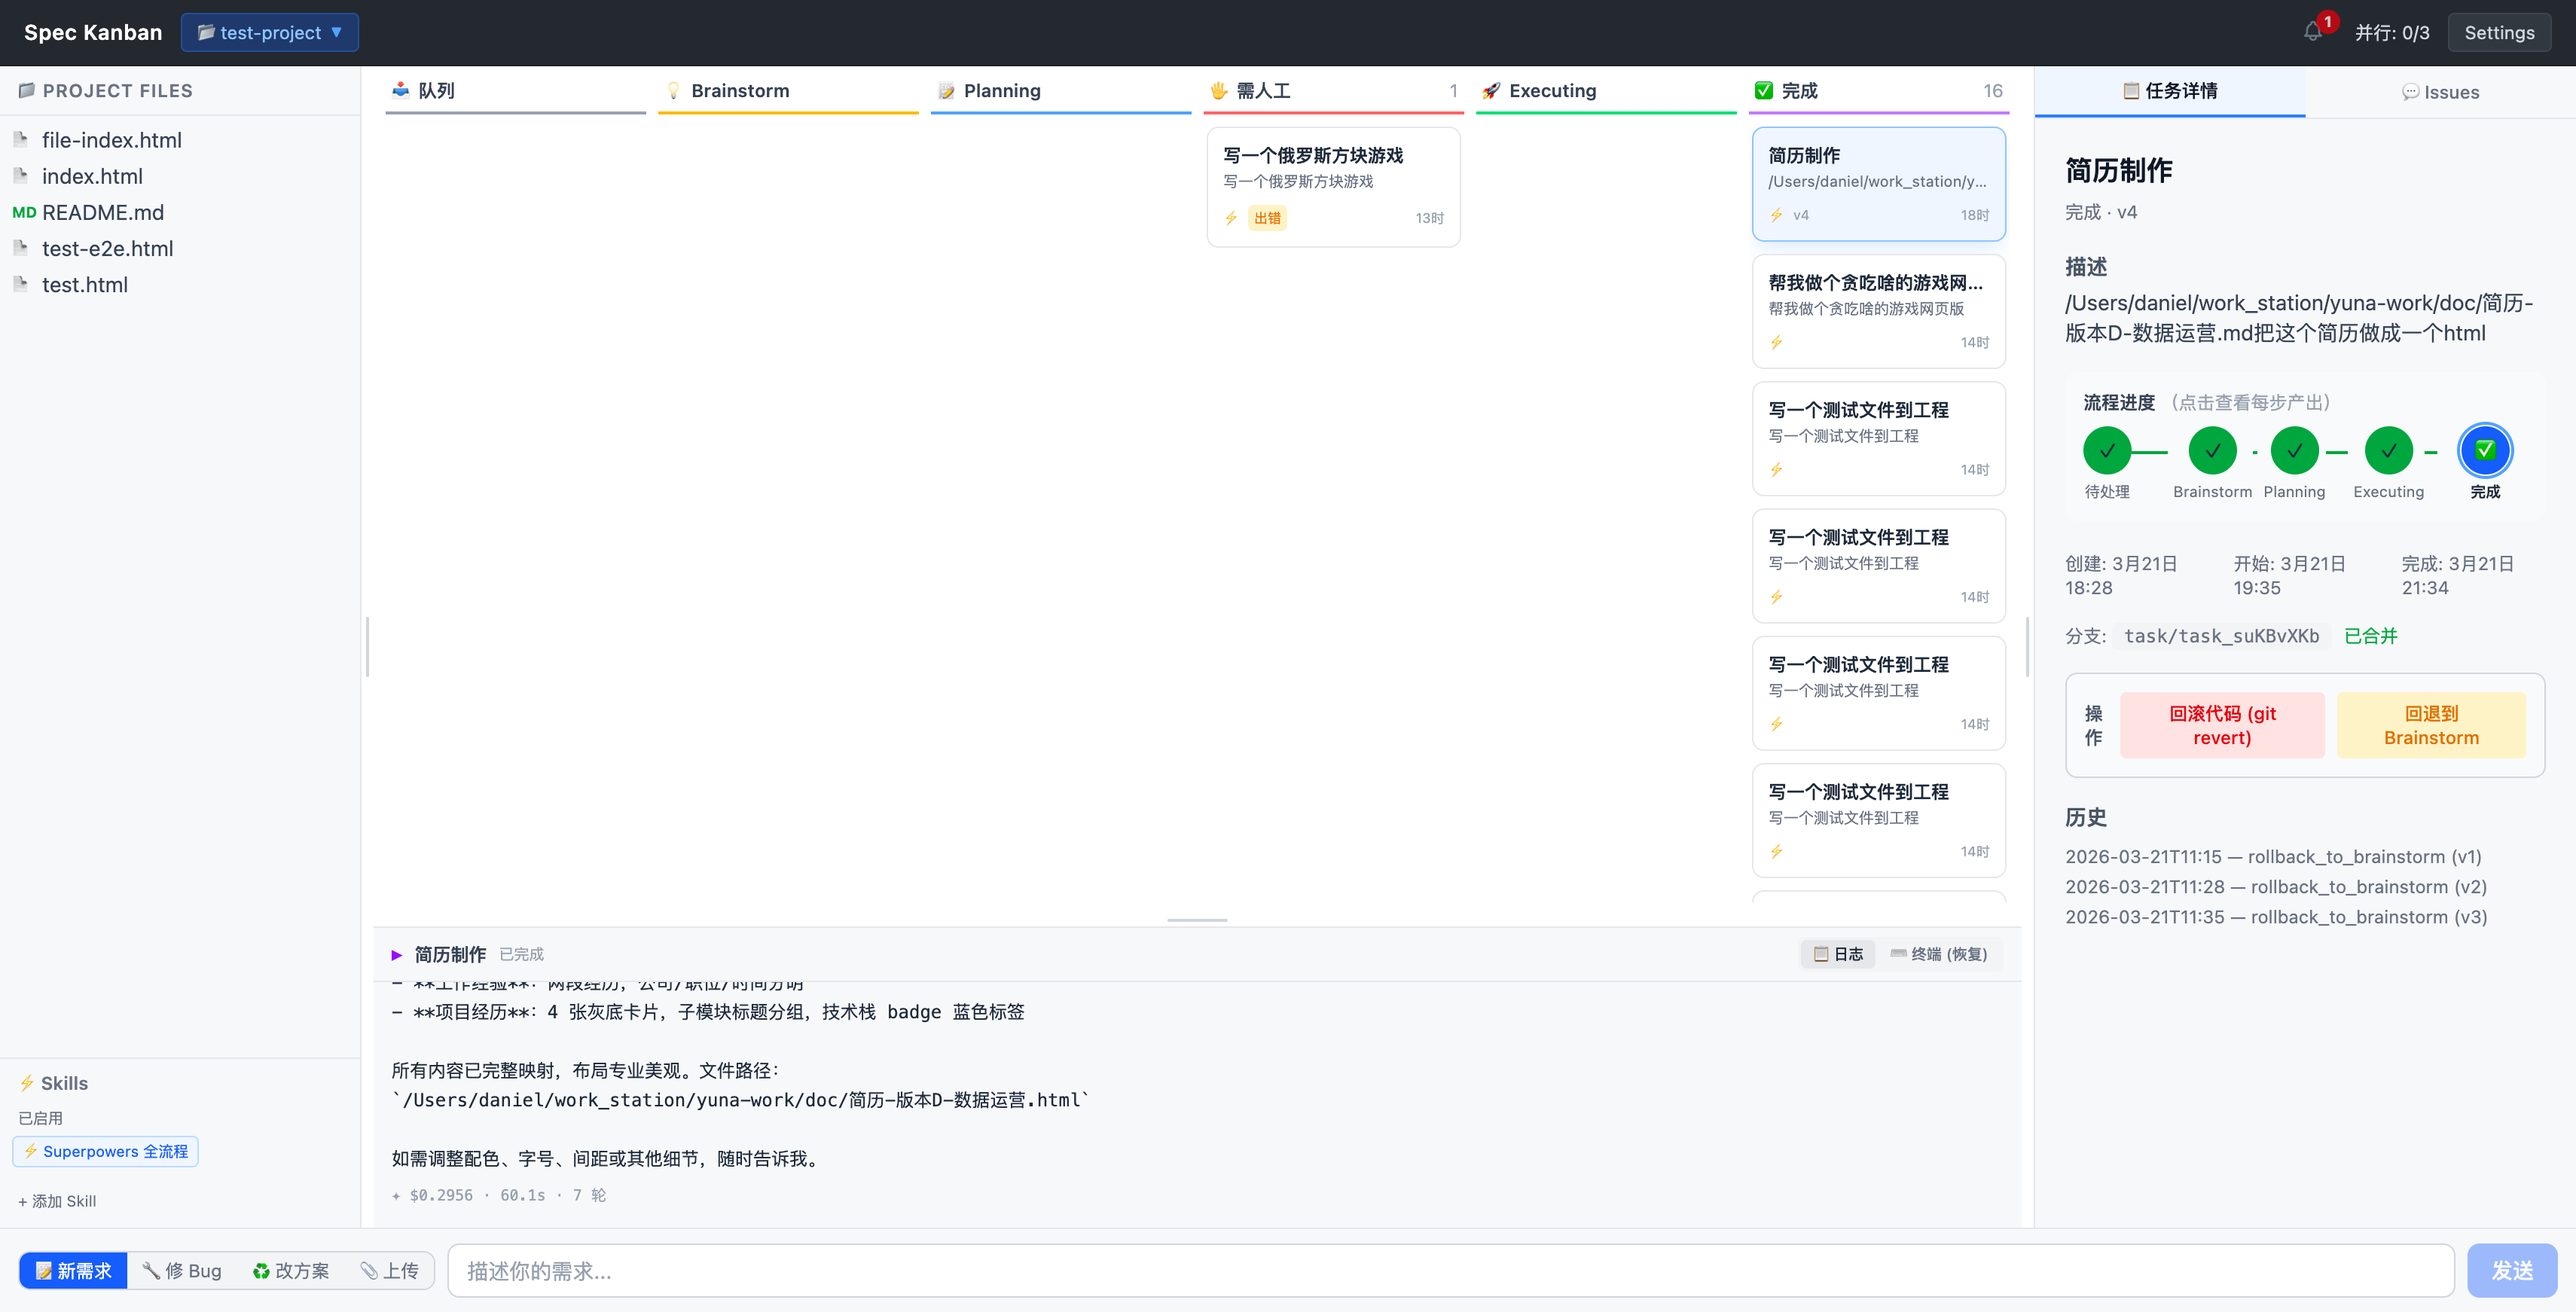
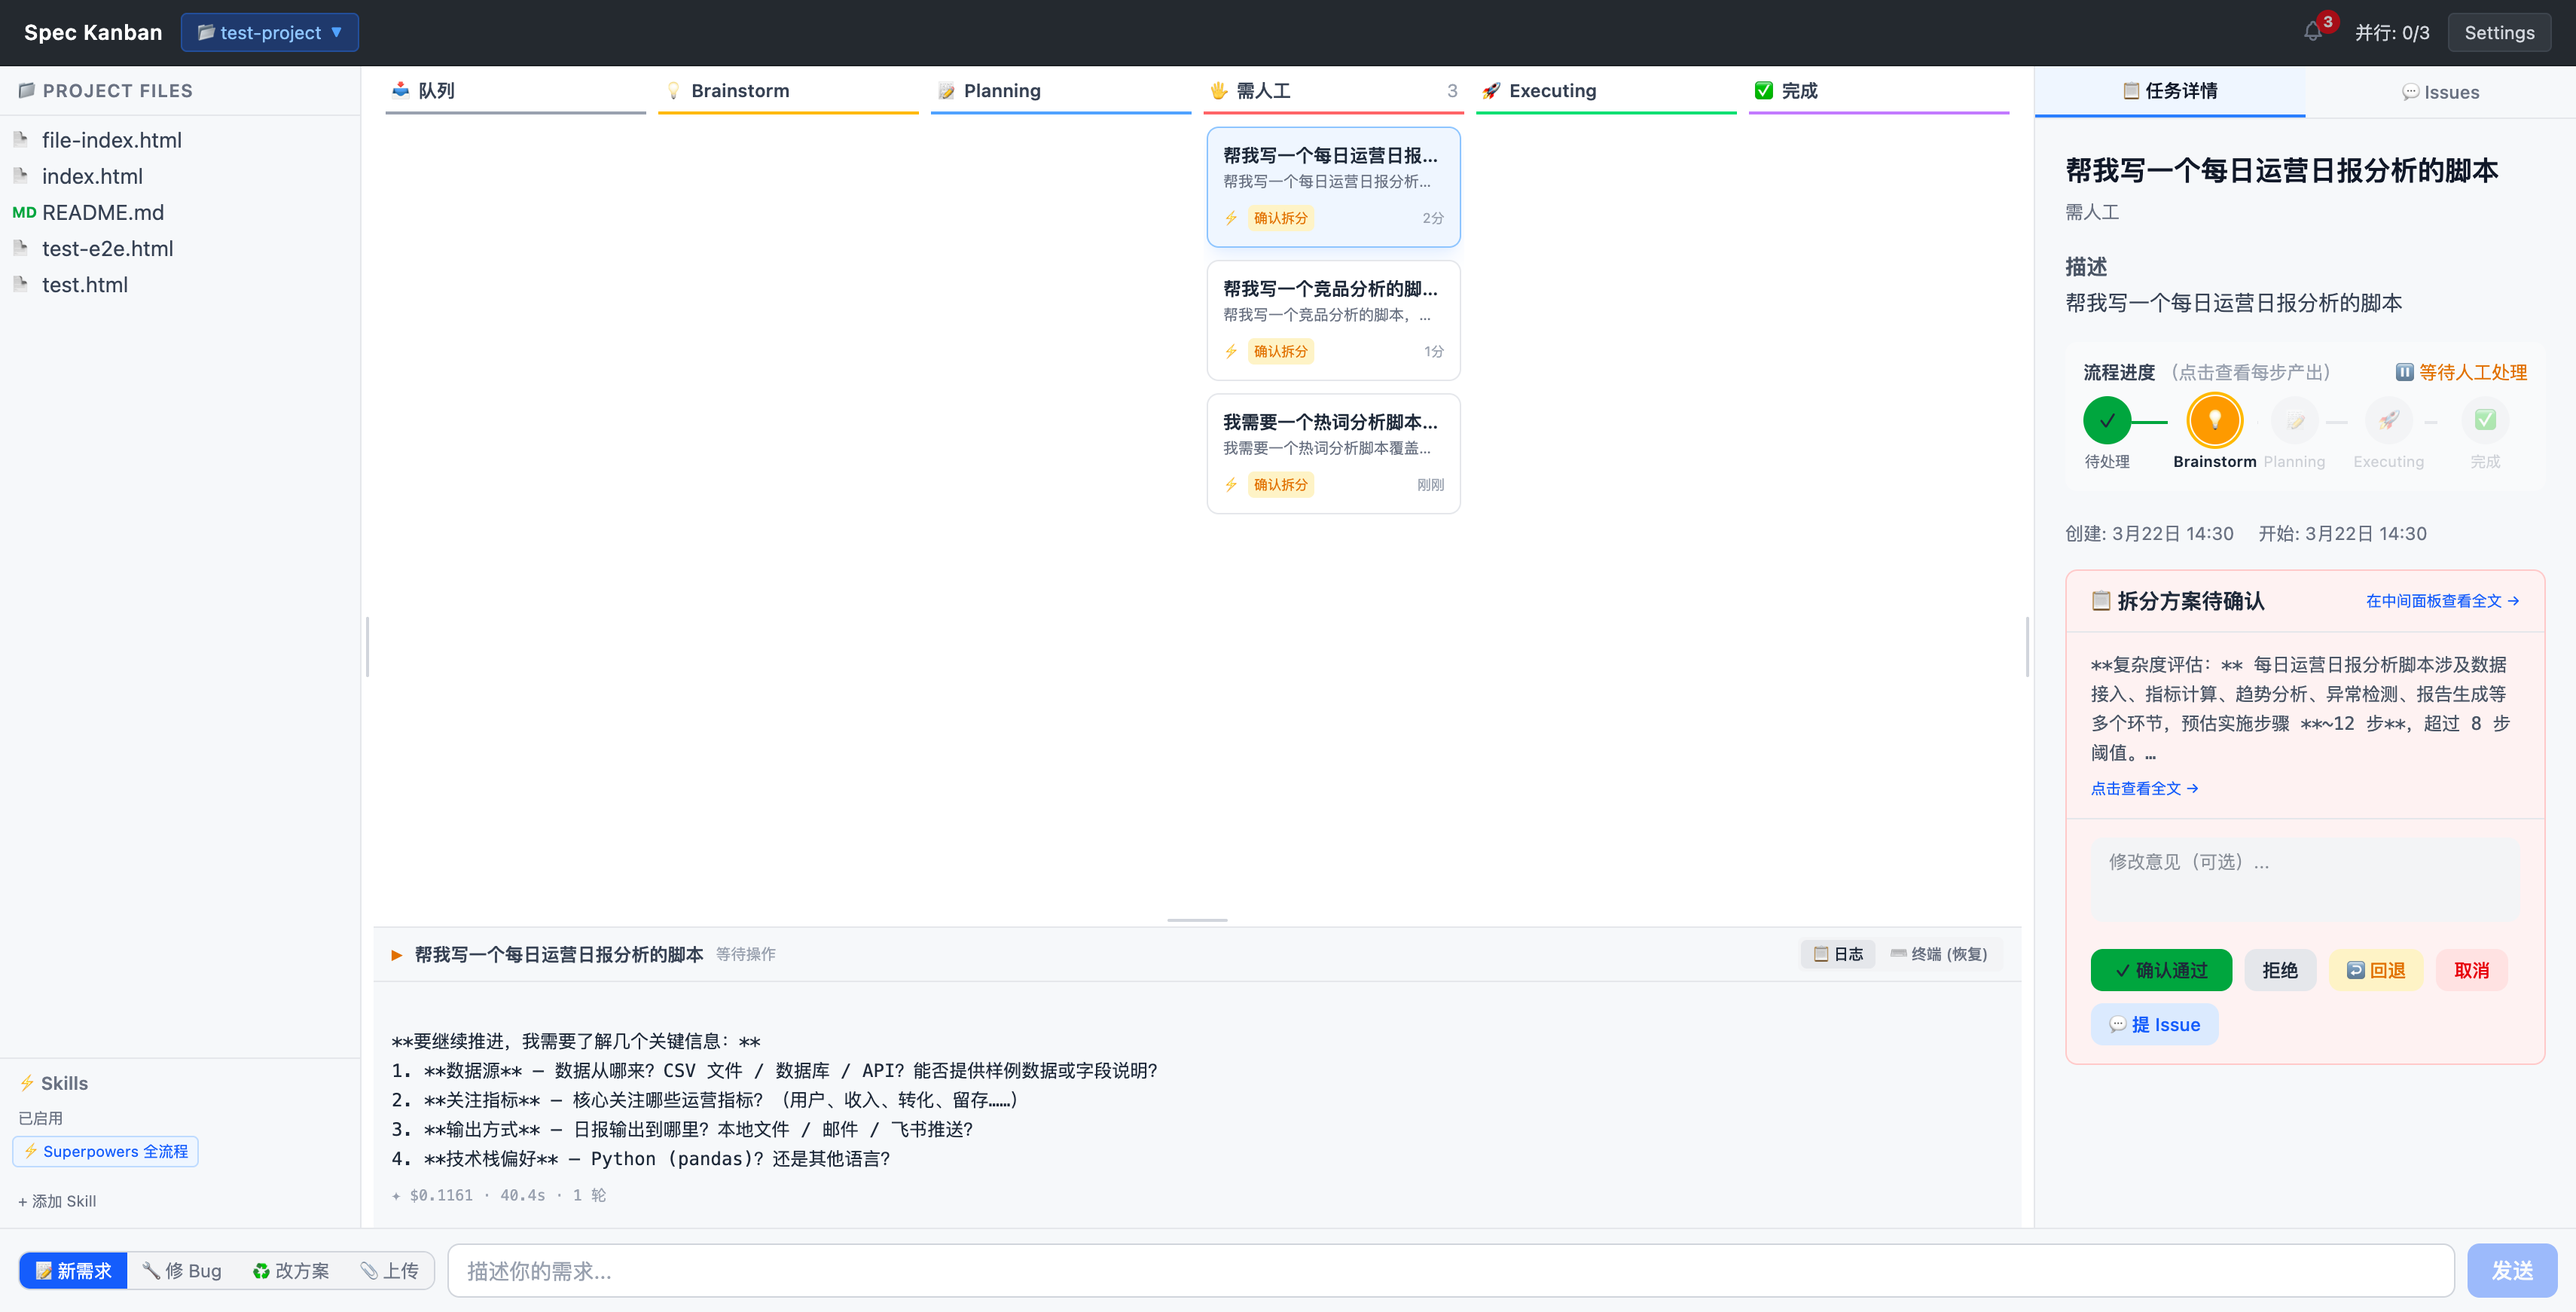
docs: 重新编排 README，更新全部截图
- 使用最新的4张截图替换旧截图
- 按功能重新组织展示顺序：审批门控、多任务并行、Issue反馈、子任务拆分
- 删除过时的 main-view.png 和 screenshot-3.png

diff --git a/README.md b/README.md
@@ -2,7 +2,31 @@
 
 AI 驱动的任务管理系统，拥有类 VS Code 的 IDE 界面。用自然语言创建任务，让 Claude AI 通过结构化工作流自动执行 —— 每个关键步骤都有人工审批门控。
 
-![主界面](docs/screenshots/main-view.png)
+## 界面预览
+
+### 人工审批门控
+
+AI 完成 Brainstorm 后自动暂停，展示方案摘要，等待人工审阅确认后再推进到下一阶段。支持「确认通过」「拒绝」「打回重做」等操作。
+
+![人工审批门控](docs/screenshots/task-detail.png)
+
+### 多任务并行与通知
+
+多个任务同时运行时，红色角标提醒待处理的人工确认数量。终端面板实时展示 Claude Code 的执行输出。
+
+![多任务并行](docs/screenshots/screenshot-4.png)
+
+### Issue 反馈系统
+
+对 AI 生成的方案提出修改意见，指定反馈所属阶段。AI 会在下次执行时自动读取 Issue 并调整方案。
+
+![Issue 反馈](docs/screenshots/screenshot-5.png)
+
+### 子任务拆分与执行追踪
+
+复杂需求自动拆解为子任务，每个子任务独立走完 Brainstorm → Planning → Executing 流程，右侧面板实时追踪各子任务状态。
+
+![子任务拆分](docs/screenshots/screenshot-6.png)
 
 ## 功能特性
 
@@ -13,8 +37,7 @@ AI 驱动的任务管理系统，拥有类 VS Code 的 IDE 界面。用自然语
 - **多项目支持** — 在多个 Git 仓库间无缝切换
 - **Issue 反馈系统** — 对 AI 生成的设计和方案提出修改意见
 - **终端集成** — xterm.js 嵌入式终端，实时查看执行日志
-
-![任务详情](docs/screenshots/task-detail.png)
+- **子任务拆分** — 复杂需求自动拆解，各子任务独立执行
 
 ## 快速开始
 
